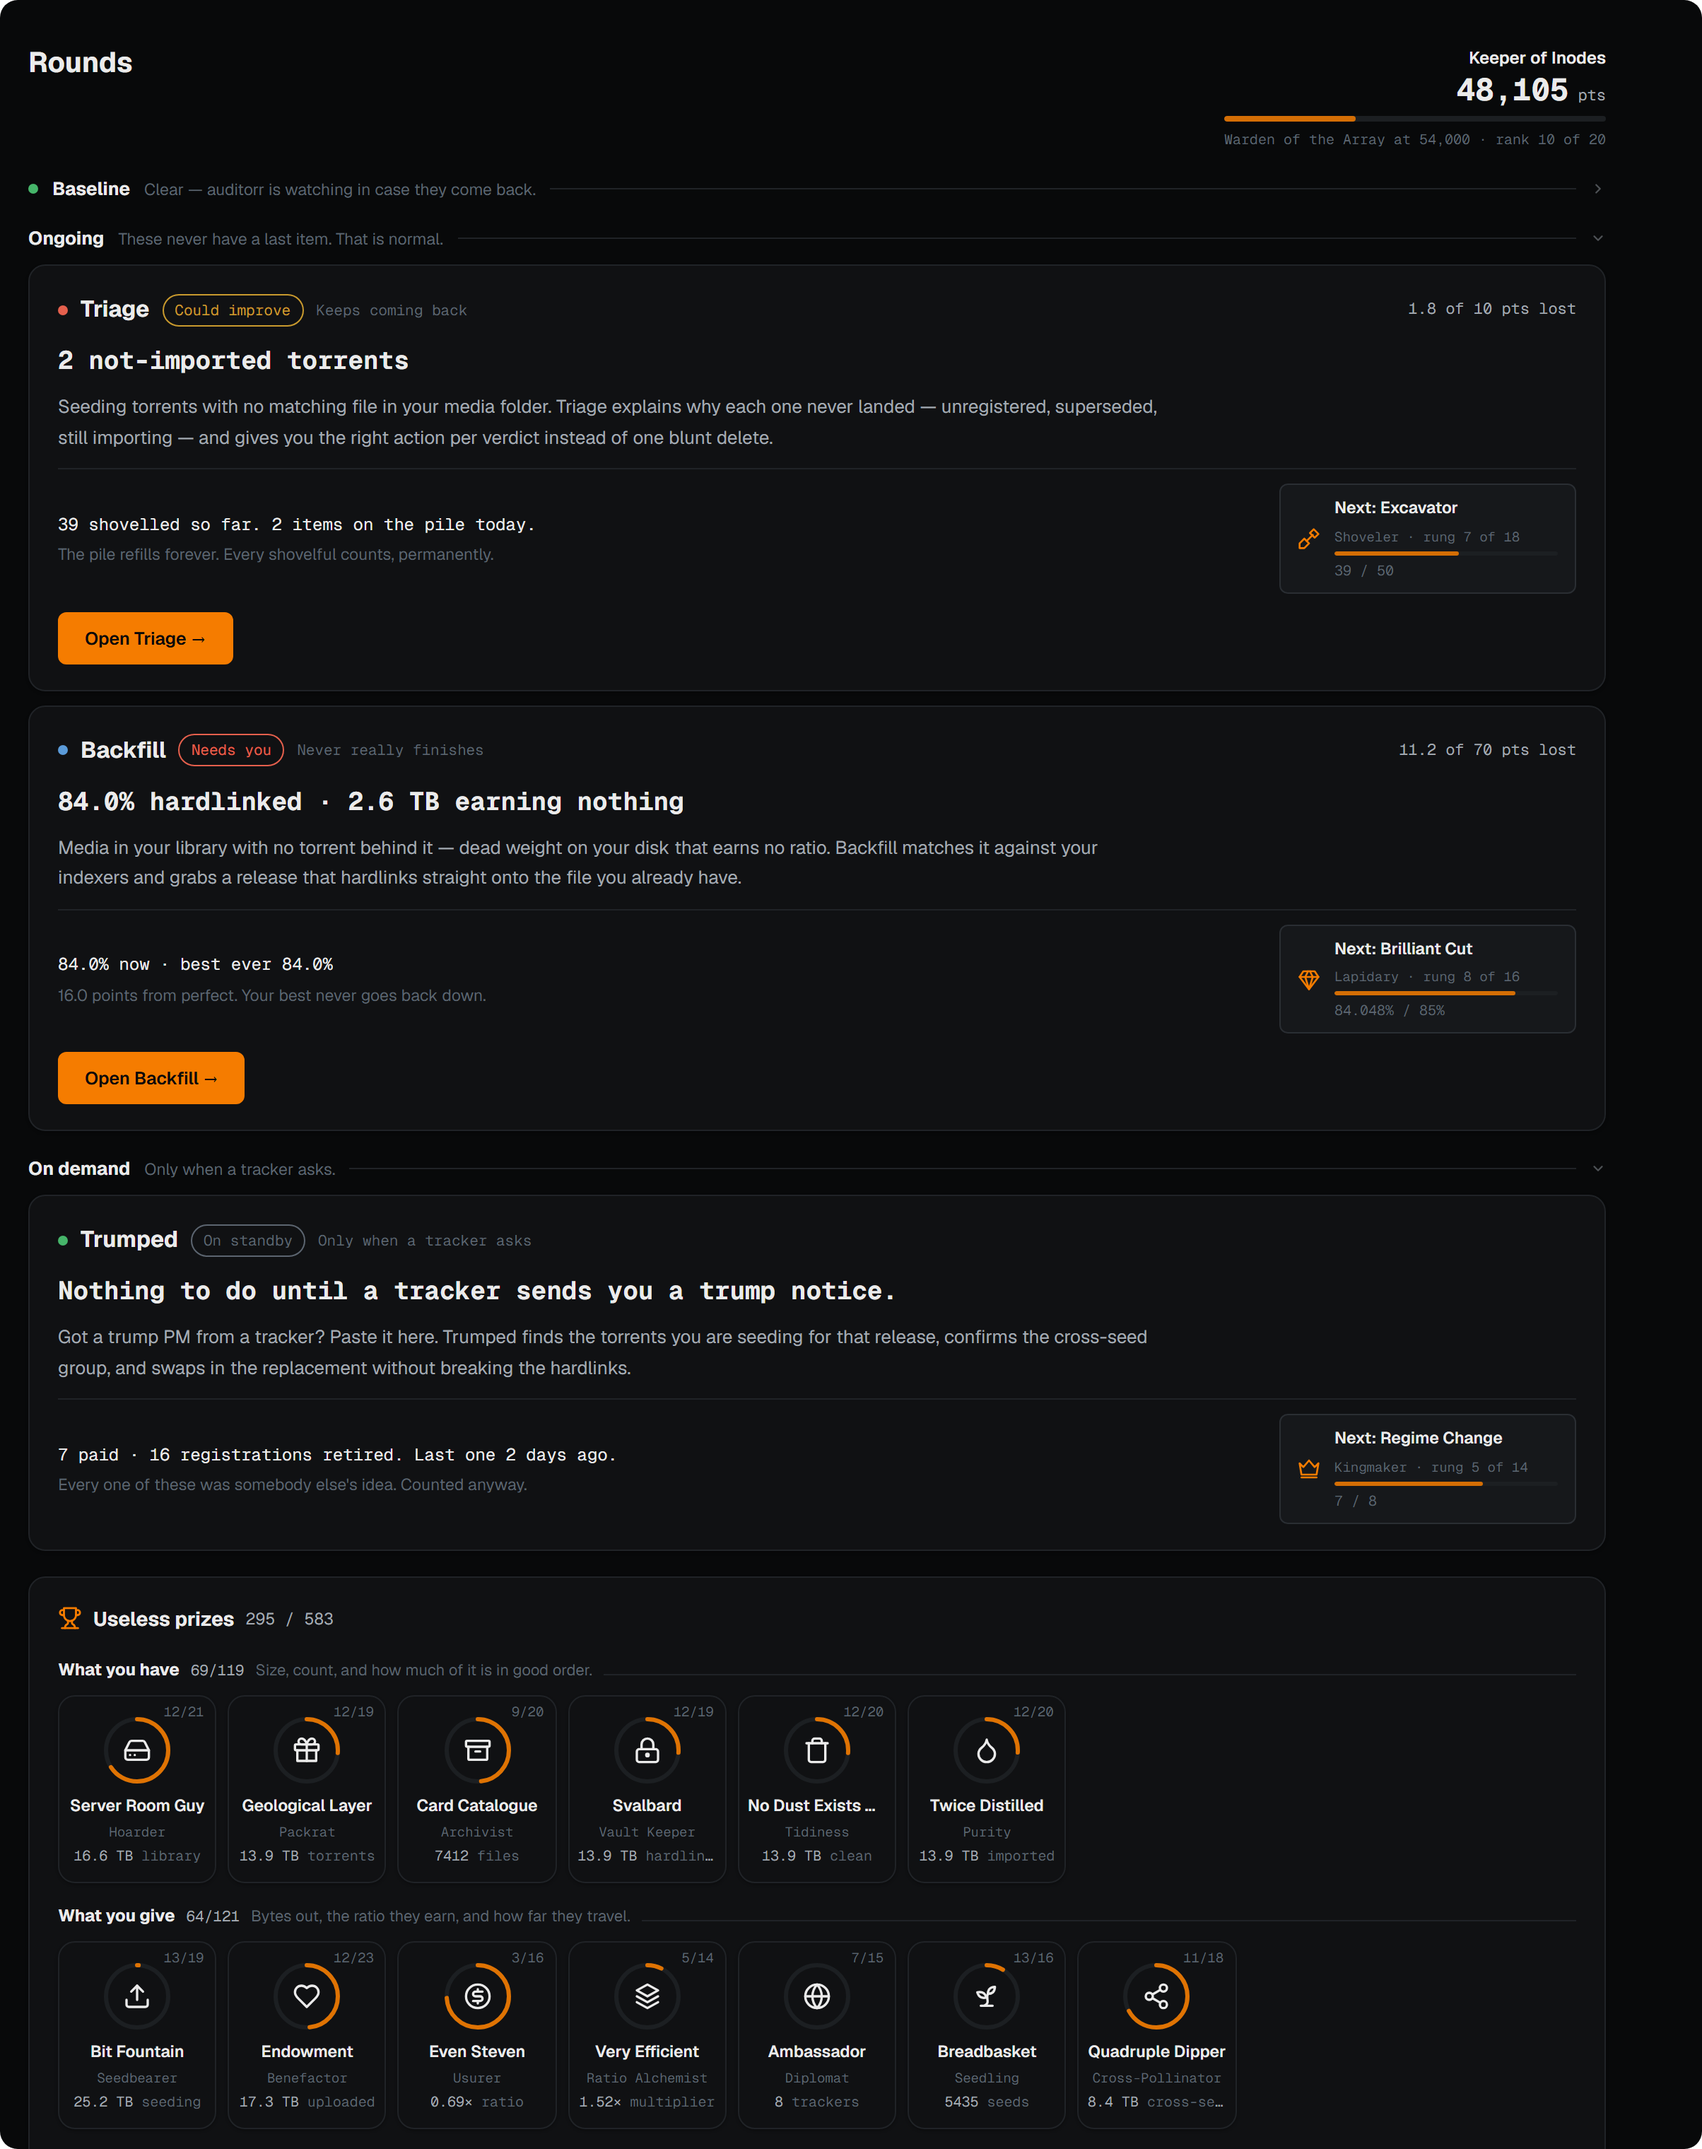
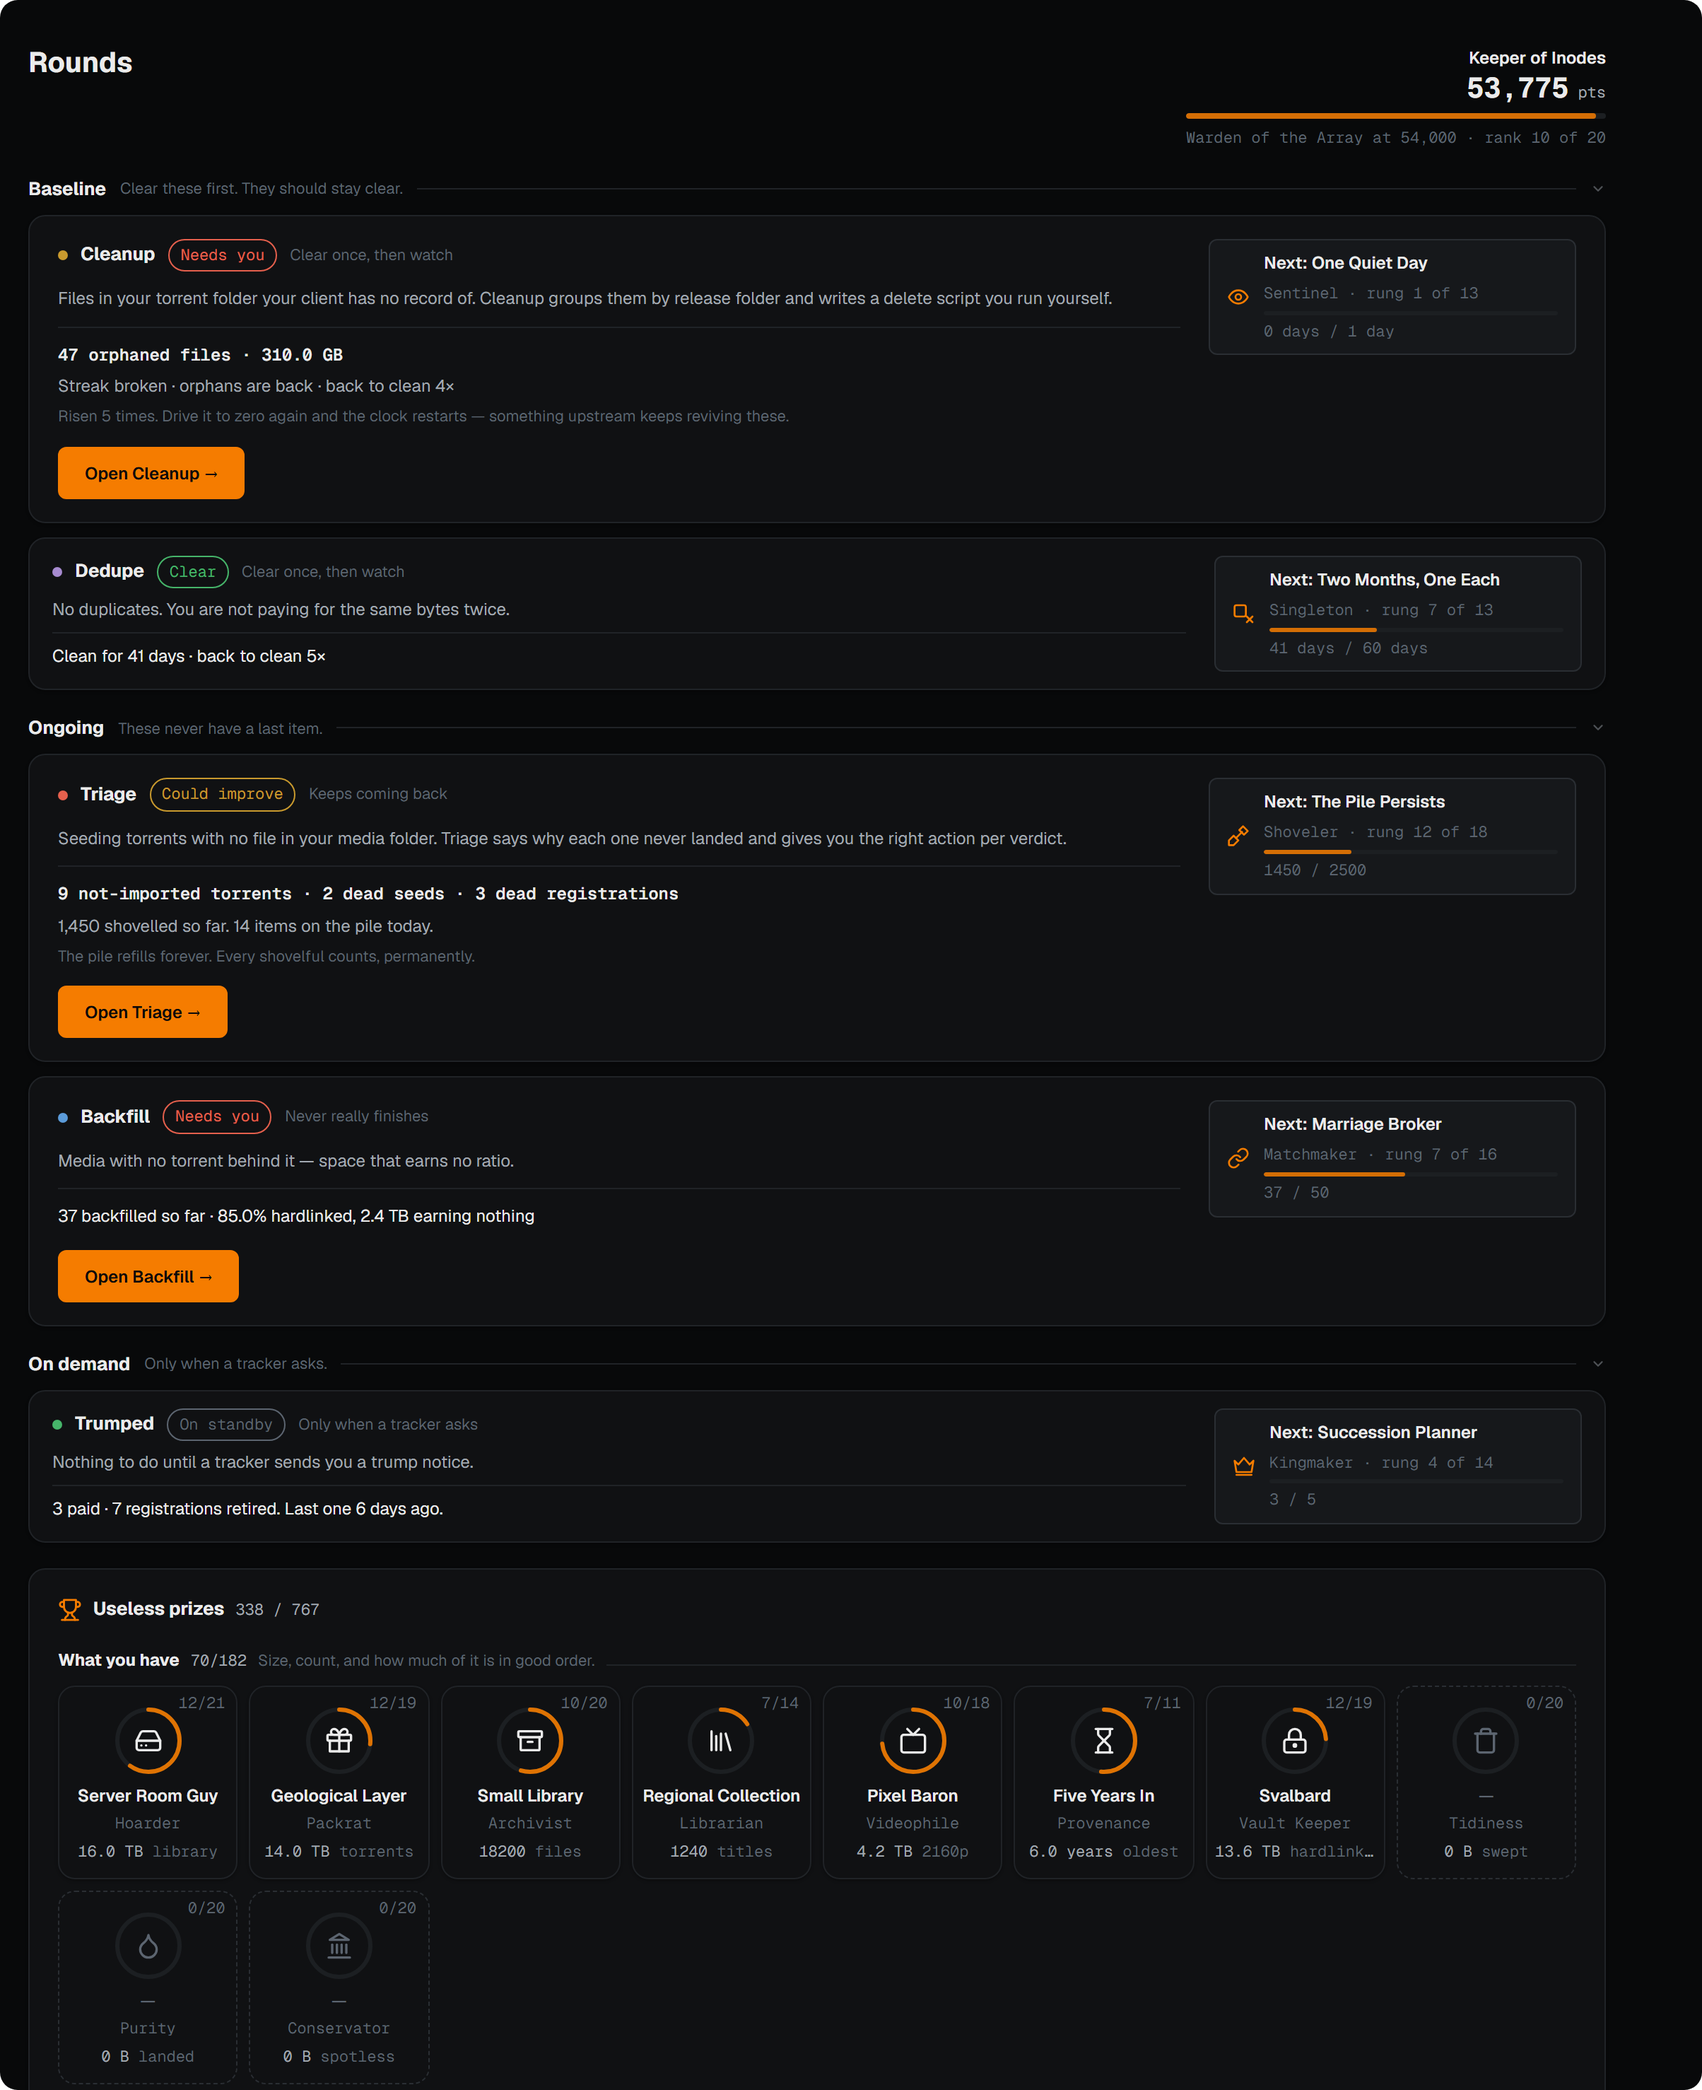
Documentation update for 1.7.3

diff --git a/app.py b/app.py
@@ -53,7 +53,7 @@ from debug import (
 logging.basicConfig(level=logging.INFO, format='%(asctime)s [%(levelname)s] %(message)s')
 log = logging.getLogger(__name__)
 
-APP_VERSION = "1.7.2"
+APP_VERSION = "1.7.3"
 
 # Keep the last ~400 log records in memory for /api/debug/report
 install_ring_buffer()

diff --git a/ROADMAP.md b/ROADMAP.md
@@ -127,13 +127,22 @@ Reduce time-to-first-scan for new users and surface qBittorrent metadata that wa
 - **`AUDITORR_REQUIRE_AUTH`** — strict mode with no local exemption; set without a secret it fails closed (503 `auth_not_configured`) behind a self-recovering full-page setup notice
 
 ### Shipped in v1.7.2
-- **Rounds** — a new page (`next_steps.py`, `/api/next_steps`) that ranks the five workflows into fixed Baseline / Ongoing / On demand sections, each row in a computed state, plus a monotonic prize layer of ~730 named tiers across 40 ladders and 104 feats. Never bottoms out (including for a library already in good shape — see the aspirational-tier ladders), never nags off-page. Design in `prompts/NEXT_STEPS.md`
+- **Rounds** — a new page (`rounds.py`, `/api/next_steps`) that ranks the five workflows into fixed Baseline / Ongoing / On demand sections, each row in a computed state, plus a monotonic prize layer of individually named tiers and one-off feats. Never bottoms out (including for a library already in good shape — see the aspirational-tier ladders), never nags off-page. Design in `prompts/NEXT_STEPS.md`
 - **Configurable health-score weights** — the 70/10/10/10 split is now a donut in Config; a component set to `0` reads *Not scored* and keeps its card. Exists for setups that delete torrents once seeding requirements are met, where Hardlinked Media collapses by design
 - **Force import in Triage** — `ManualImport` with `replaceExistingFiles`, the only path past `UpgradeSpecification` for a same-quality trump replacement; offered only where quality matches, deliberately absent on downgrades
 - **Rescan honesty + correctness** — release-folder targeting, explicit `Copy` import mode so a seeding torrent's file is never moved, `manualimport` probes so a refusal reports its real reason, and folder lookups no longer scoped by `movieId`/`seriesId` (which returned the existing library file instead of the folder)
 - **External URLs (#21)** — an optional browser-facing address per service alongside the API address, for reverse proxies; link-building only, never fetched server-side
 - **Trumped title gating** — the title core is a required gate rather than one score among many, so quality agreement can no longer manufacture a match between unrelated releases; the PM's indexer is a priority, never a filter
 - **arm64 images** — multi-arch publish (`linux/amd64,linux/arm64`) with the frontend stage pinned to the build host
+
+### Shipped in v1.7.3
+- **"How you got here"** — a dated achievement record (`ns_progress['history']`, `_timeline`), written in the same pass that advances the latches so the two cannot drift. An install upgrading into it gets `history_from_runs` — everything the audit log can prove, dated retroactively per distinct audit day — and one `prior` marker for the genuinely undatable remainder. Each row carries the ladder's `terms` phrase, so a rung says what it was earned *on*, not just where it sits
+- **An aspirational tier for the prize shelf** — the layer went dead for exactly the user who had done the work: cleanliness feats are all first-scan zero states, and the zombie ladders only pay when a mess returns. Eleven new ladders (Conservator, Unblemished, Full Marks, Fire Brigade, Atlas, Old Faithful, Librarian, Videophile, Provenance, Singleton, Matchmaker) and new feats crossing the zero states with scale and time
+- **Every workflow's prize is now work done, not bytes held** — `LADDER_OWNER` no longer points a workflow row at a library-state ladder; `test_no_workflow_card_is_paid_in_bytes` fails the build if one comes back. Packrat / Tidiness / Purity were also one number on three tiles, and are rebased
+- **Workflow pages no longer go stale after you act on a row** — an `auditorr:audit_complete` event refreshes each page's own loader, a module-level `DISMISSED` set survives remounts, and the actions the filesystem watcher cannot see (keep-files removal, added exclusions) call `nudge_watchdog()`. Refresh buttons removed
+- **Multi-instance Sonarr/Radarr fixes (#22)** — `normalize_arr_connections` merges the singleton keys with `ARR_CONNECTIONS` rather than picking one; Backfill's Sonarr grouping key includes the connection id; per-series failures no longer discard a whole library; bulk listings get `_ARR_LIST_TIMEOUT`; unreadable instances are reported rather than silently absent
+- **File Explorer's status filter split (#23)** — `status` is only ever a status; Duplicates and Excluded became `+`/`-` `FlagToggle`s, so "orphaned but not excluded" is expressible. `EXCLUSION_HIDE_FROM_EXPLORER` becomes the toggle's starting position instead of a hard filter
+- **Backfill credit at grab time** — `record_backfill` fires when the arr accepts the release, not from the in-memory import watch, which could not survive a container restart mid-download. Both event counters now write through `db_update_meta`, and the audit merges rather than overwrites them
 
 ---
 

diff --git a/CHANGELOG.md b/CHANGELOG.md
@@ -1,9 +1,9 @@
 # Changelog
 
-## Unreleased
+## v1.7.3 — 2026-09-06
 
 ### Features
-- **Rounds: prizes that still have something to say once your library is tidy** — the *Useless prizes* shelf went quiet for exactly the people who'd done the work. Its cleanliness feats are all earned on the first good scan, and the zombie ladders (Exterminator, Clone Hunter) only pay when a mess *comes back*, so a library that stays clean can never earn another one. Nine new ladders and fourteen new feats aim at that: **Conservator** (the largest library you have ever held with nothing whatsoever wrong with it), **Unblemished** (consecutive days with no orphans, no duplicates and nothing unimported), **Full Marks** (consecutive days at a health score of exactly 100), and **Fire Brigade**, which counts messes cleared within a day of appearing — a clean library can't earn kills, but it can be quick. Plus two that reward patience rather than spending: **Atlas** multiplies everything you seed by how long you've seeded it, so 20 TB held for five years outranks 500 TB held for three weeks, and **Old Faithful** tracks your longest-lived single torrent — the one rung a small tidy library can hold that a 500 TB seedbox cannot. Both read your client's own seeding time, so a five-year seedbox arrives mid-ladder on its first scan rather than starting from zero.
+- **Rounds: prizes that still have something to say once your library is tidy** — the *Useless prizes* shelf went quiet for exactly the people who'd done the work. Its cleanliness feats are all earned on the first good scan, and the zombie ladders (Exterminator, Clone Hunter) only pay when a mess *comes back*, so a library that stays clean can never earn another one. Six new ladders and fourteen new feats aim at that: **Conservator** (the largest library you have ever held with nothing whatsoever wrong with it), **Unblemished** (consecutive days with no orphans, no duplicates and nothing unimported), **Full Marks** (consecutive days at a health score of exactly 100), and **Fire Brigade**, which counts messes cleared within a day of appearing — a clean library can't earn kills, but it can be quick. Plus two that reward patience rather than spending: **Atlas** multiplies everything you seed by how long you've seeded it, so 20 TB held for five years outranks 500 TB held for three weeks, and **Old Faithful** tracks your longest-lived single torrent — the one rung a small tidy library can hold that a 500 TB seedbox cannot. Both read your client's own seeding time, so a five-year seedbox arrives mid-ladder on its first scan rather than starting from zero.
 - **Rounds: the shelf now describes your library, not just its size** — *What you have* was six medallions all reading one number. Hoarder, Packrat, Vault Keeper, Tidiness and Purity are bytes; Archivist is the same bytes counted as files. Every one of them moved when you bought a drive and none of them moved when you improved what was on it. Three new ones ask different questions: **Librarian** counts distinct titles (60 TB of remuxes is not a large collection), **Videophile** counts bytes held at 2160p, and **Provenance** is the age of the oldest thing you still have.
 
 - **Rounds: "How you got here" — a dated record of everything you have earned** — the prize shelf could tell you *what* you had and nothing about *when* you got it or in what order, because the underlying data was a set of latches with no dates on them. There is now a timeline at the foot of the page: every rung and every feat, newest first, with the day it landed, what it was worth, and a running points total down the right-hand side that ends on the same number as the rank readout at the top of the page. It shows the most recent handful and expands to the lot. Each row also says **what it took**, spelled out: `25.0 TB in the media library`, `30 days without an orphan`, `500 audits by the watchdog`, `72.0 h spent scanning` — and for a feat, the condition it was awarded on. A rung name is a punchline with no setup and a rung number only says where it sits on its ladder; neither of them says 25 TB.

diff --git a/docs/troubleshooting.md b/docs/troubleshooting.md
@@ -262,6 +262,28 @@ and none should read `0 managed files`.
 
 ---
 
+## The Duplicate and Excluded filters vanished from File Explorer
+
+They moved, in v1.7.3. **Status** now holds only what is genuinely a status —
+All, Seeding, Orphaned — and *Duplicates* and *Excluded* sit beside it as their
+own `+` / `-` toggles: `+` for only those files, `-` to drop them, neither for
+the old behaviour.
+
+The point of the split is that they combine. As chips you could only ever pick
+one, so asking for *orphaned* left everything else unconstrained and **orphaned
+but not excluded** could not be expressed at all — which matters if you use the
+orphaned view as a list of releases you could upload, since one excluded `.srt`
+was enough to keep a release you had already seeded in the list, and in tree view
+its whole folder with it. That question is now *Orphaned* plus `-` on Excluded.
+
+The **Excluded** toggle also shows how many excluded files are mixed into your
+current view when it isn't constraining it, which is the quickest way to notice
+that's what you're looking at. Its starting position comes from
+[Hide excluded files from the explorer](configuration.md#hide-excluded-files-from-the-explorer);
+moving it in the toolbar lasts for the visit, not beyond it.
+
+---
+
 ## Sonarr/Radarr buttons open the wrong thing, or nothing
 
 auditorr deep-links into your arrs by matching the file's path to their library.

diff --git a/README.md b/README.md
@@ -18,6 +18,14 @@ tells you what's wrong with your library. Five automated workflows fix it.
 
 ---
 
+## What's new in 1.7.3
+
+- **[How you got here](#rounds)** - a dated record of every prize you've earned, at the foot of Rounds. Upgrading doesn't start it empty: auditorr replays your audit log and dates everything that log can prove.
+- **Prizes for a library that's already tidy** - the shelf used to go quiet for exactly the people who'd done the work. Eleven new ladders aim at that, including the largest library you've ever held with nothing wrong with it, and everything you seed multiplied by how long you've held it.
+- **[File Explorer can say "not"](docs/configuration.md#excluded-files--folders)** - *Duplicates* and *Excluded* are their own `+` / `-` toggles now, so **orphaned but not excluded** is finally a question you can ask.
+- **Multiple Sonarr / Radarr instances actually work (#22)** - adding one to the additional-instances list used to switch your primary off. Upgrading is the whole fix.
+- **Every workflow's prize is now the work you did**, not the size of your drives - and acting on a row updates the sidebar, the dashboard and the other pages straight away.
+
 ## What's new in 1.7.2
 
 - **[Rounds](#rounds)** - a new page that tells you which workflows your library needs right now, which to do first, and keeps score with useless prizes.

diff --git a/docs/workflows.md b/docs/workflows.md
@@ -92,6 +92,8 @@ ends on the same figure as the rank at the top of the page. The shelf is what
 you have; this is what you did, and when. It shows the last few and expands to
 everything.
 
+<p><img src="rounds-history.png" alt="The achievement record at the foot of Rounds" width="100%" /></p>
+
 Each row also says what it took, in full: `25.0 TB in the media library`, `30
 days without an orphan`, `500 audits by the watchdog`, `72.0 h spent scanning`.
 A name like *Geological Layer* is a punchline with no setup, and *rung 12 of 21*
